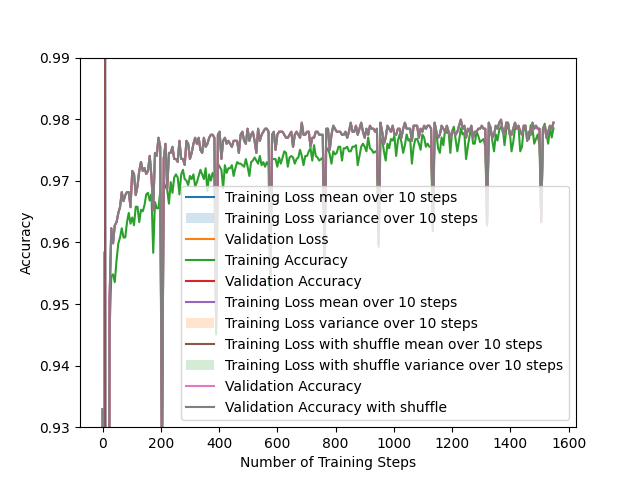
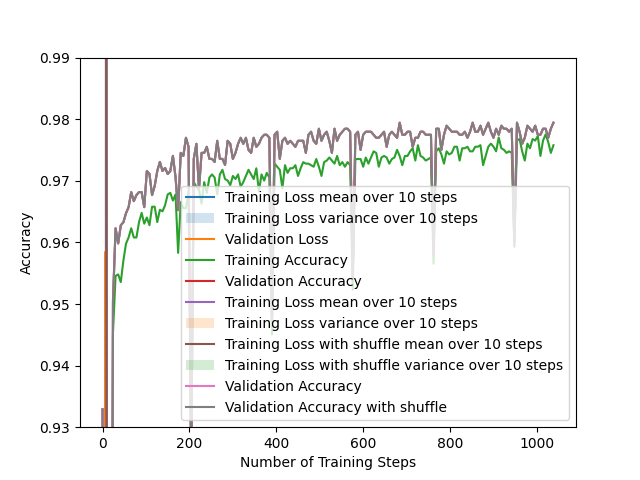
testing stopping

diff --git a/assignment1/trainer.py b/assignment1/trainer.py
@@ -1,3 +1,4 @@
+from random import seed
 import numpy as np
 import utils
 
@@ -23,6 +24,8 @@ class BaseTrainer:
         self.batch_size = batch_size
         self.model = model
         self.shuffle_dataset = shuffle_dataset
+        self.stop_count = 10
+        #self.number_of_cycles = 0
 
     def validation_step(self):
         """
@@ -71,7 +74,8 @@ class BaseTrainer:
             loss={},
             accuracy={}
         )
-
+        counter = 0
+        prev_best_loss = np.inf
         global_step = 0
         for epoch in range(num_epochs):
             train_loader = utils.batch_loader(
@@ -90,5 +94,29 @@ class BaseTrainer:
 
                     # TODO (Task 2d): Implement early stopping here.
                     # You can access the validation loss in val_history["loss"]
+                    if self.stop_count:
+                        # No improvement
+                        if prev_best_loss < val_loss:
+                            counter += 1
+                        else:
+                            counter = 0
+                            prev_best_loss = val_loss
+                            
+                        # We have reached max number of passes trough dataset without improvement
+                        if counter == self.stop_count:
+                            print(f"We went trough {epoch} of {num_epochs} before stopping")
+                            return train_history, val_history
+                    # if(global_step >= num_steps_per_val*self.stop_count and val_history["loss"][global_step] >= val_history["loss"][global_step-(num_steps_per_val*self.stop_count)]):
+                    #     print(f'Training stopped after {epoch} epochs. {epoch}/{num_epochs} total')
+                    #     return train_history, val_history
+                    # if self.number_of_cycles % 10 == 0 and self.number_of_cycles > 0:
+                    #     print(val_history["loss"][global_step])
+                    #     print(num_steps_per_val)
+                    #     print(val_history["loss"])
+                    # #if global_step % 10 == 0 and (val_history["loss"][global_step] <= val_history["loss"][global_step-1]):
+                    #     print(f'Training stopped after {epoch} epochs. {epoch}/{num_epochs} total')
+                    #     #return train_history, val_history
+                    
                 global_step += 1
+            
         return train_history, val_history

diff --git a/assignment1/task2.py b/assignment1/task2.py
@@ -74,7 +74,7 @@ class LogisticTrainer(BaseTrainer):
 
 if __name__ == "__main__":
     # hyperparameters DO NOT CHANGE IF NOT SPECIFIED IN ASSIGNMENT TEXT
-    num_epochs = 50
+    num_epochs = 500 #org 50
     learning_rate = 0.05
     batch_size = 128
     shuffle_dataset = False
@@ -115,7 +115,7 @@ if __name__ == "__main__":
     plt.legend()
     plt.xlabel("Number of Training Steps")
     plt.ylabel("Cross Entropy Loss - Average")
-    plt.savefig("task2b_binary_train_loss.png")
+    #plt.savefig("task2b_binary_train_loss.png")
     plt.show()
 
     # Plot accuracy
@@ -125,7 +125,7 @@ if __name__ == "__main__":
     plt.xlabel("Number of Training Steps")
     plt.ylabel("Accuracy")
     plt.legend()
-    plt.savefig("task2b_binary_train_accuracy.png")
+    #plt.savefig("task2b_binary_train_accuracy.png")
     plt.show()
 
     # Task 2e - Create a comparison between training with and without shuffling
